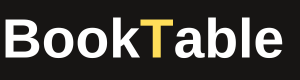
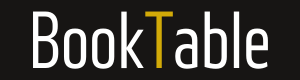
feat:Creation of the database and changes in the visual of the aplication

diff --git a/views/HomeView.xaml b/views/HomeView.xaml
@@ -2,7 +2,7 @@
 <ContentPage xmlns="http://schemas.microsoft.com/dotnet/2021/maui"
              xmlns:x="http://schemas.microsoft.com/winfx/2009/xaml"
              x:Class="BookTable.Views.HomeView"
-             BackgroundColor="#171514">
+             BackgroundColor="#000">
 
 
 
@@ -16,6 +16,7 @@
                  />
 
                 <Image Source="booktable.png"
+               Margin="5, 0, 0, 0"
                HeightRequest="80"
                WidthRequest="200"
                HorizontalOptions="Start"/>
@@ -25,12 +26,13 @@
         <Grid>
             <Grid.RowDefinitions>
                 <RowDefinition Height="{Binding HeightPaste}" />
-                <!-- Linha para o Frame -->
             </Grid.RowDefinitions>
 
-            <Frame Grid.Row="1"
-           Padding="1"
-           BackgroundColor="#0d0c0c"
+            <ScrollView VerticalScrollBarVisibility="Always">
+                <Frame Grid.Row="1"
+           Padding="0, 1, 0, 0"
+           BackgroundColor="#000"
+           BorderColor="Black"
            HeightRequest="{Binding HeightPaste}"
            WidthRequest="{Binding WidthPaste}"
            VerticalOptions="FillAndExpand"
@@ -40,35 +42,46 @@
                     <CollectionView.ItemTemplate>
                         <DataTemplate>
                             <Frame
-                           Margin="0, 1, 0 , 0"
-                           BackgroundColor="#121110"
+                           Margin="0, 0, 0 , 1"
+                           BackgroundColor="#16384C"
                            HasShadow="False"
                            CornerRadius="0"
-                           BorderColor="Black"
+                           BorderColor="#171514"
                            HeightRequest="60"
                            VerticalOptions="FillAndExpand"
                            HorizontalOptions="FillAndExpand"
                            >
-                                <StackLayout>
-                                    <Label Text="{Binding Name}" FontSize="14" HorizontalOptions="FillAndExpand"  />
-                                </StackLayout>
-                            </Frame>
+                                    <StackLayout  Orientation="Horizontal">
+                                        <Label Text="{Binding Name}" FontSize="14" HorizontalOptions="StartAndExpand"  />
+                                        <Button Text="+" FontSize="10" HorizontalOptions="Center" VerticalOptions="Center"
+                                        WidthRequest="20"
+                                        BackgroundColor="Transparent"
+                                        TextColor="#171514"
+                                        BorderWidth="0"/>
+                                        <ImageButton Source="trash.png"
+                                        HorizontalOptions="EndAndExpand"
+                                        HeightRequest="20"
+                                        WidthRequest="20"
+                                        VerticalOptions="End" />
+                                    </StackLayout>
+                                </Frame>
                         </DataTemplate>
                     </CollectionView.ItemTemplate>
                 </CollectionView>
             </Frame>
-        </Grid>
+            </ScrollView>
 
 
 
-        <Frame WidthRequest="70"
-               HeightRequest="70"
+            <Frame WidthRequest="60"
+               HeightRequest="60"
                CornerRadius="40"
                BackgroundColor="#d2aa08"
+               BorderColor="Transparent"
                HasShadow="False"
                HorizontalOptions="Center"
                VerticalOptions="FillAndExpand"
-               Margin="0,10,0,0"
+               Margin="{Binding ButtonMargin}"
                x:Name="ButtonFrame">
 
                 <Button Text="+"
@@ -83,7 +96,8 @@
                     VerticalOptions="Center"
                     Command="{Binding ShowOptionsCommand}"/>
             </Frame>
+        </Grid>
 
-        </VerticalStackLayout>
+    </VerticalStackLayout>
   
 </ContentPage>

diff --git a/ViewModel/HomeViewModel.cs b/ViewModel/HomeViewModel.cs
@@ -19,11 +19,14 @@ namespace BookTable.ViewModel
         public ObservableCollection<Paste> Pastes { get; set; }
         private double _heightPaste;
         private double _widthPaste;
+        private Thickness _buttonMargin;
         public HomeViewModel()
         {
+            LoadPastesAsync();
             Pastes = new ObservableCollection<Paste>();
-            HeightPaste = DeviceInfoModel.ScreenHeight - DeviceInfoModel.ScreenHeight / 3.5;
+            HeightPaste = DeviceInfoModel.ScreenHeight - DeviceInfoModel.ScreenHeight / 6;
             WidthPaste = DeviceInfoModel.ScreenWidth + 10;
+            ButtonMargin = new Thickness(0, DeviceInfoModel.ScreenHeight - DeviceInfoModel.ScreenHeight/3.6, 0, 0);
             //Create the command for showing a popup
             ShowOptionsCommand = new AsyncRelayCommand(ShowOptionsAsync);
         }
@@ -38,11 +41,12 @@ namespace BookTable.ViewModel
         public double WidthPaste
         {
             get => _widthPaste;
-            set
-            {
-                _widthPaste = value;
-                OnPropertyChanged(nameof(WidthPaste));
-            }
+            set => SetProperty(ref _widthPaste, value);
+        }
+        public Thickness ButtonMargin
+        {
+            get => _buttonMargin;
+            set => SetProperty(ref _buttonMargin, value);
         }
 
         //This happens whe the user click the button
@@ -58,8 +62,23 @@ namespace BookTable.ViewModel
                 {
                     var popup = new NewPastePopup();
                     await page.ShowPopupAsync(popup);
+                    var newPaste = new Paste { Name = popup.PasteName};
                     Pastes.Add(new Paste { Name = popup.PasteName });
+                    await DatabaseHelper.Database.InsertAsync(newPaste);
                 }
+            }
+        }
+        [RelayCommand]
+        public async Task LoadPastesAsync()
+        {
+            var pastes = await DatabaseHelper.Database.Table<Paste>().ToListAsync();
+
+            if (Pastes.Count > 0)
+                Pastes.Clear();
+
+            foreach (var paste in pastes)
+            {
+                Pastes.Add(paste); 
             }
         }
     }

diff --git a/Models/DatabaseHelper.cs b/Models/DatabaseHelper.cs
@@ -1,0 +1,29 @@
+using SQLite;
+using System;
+using System.Collections.Generic;
+using System.Linq;
+using System.Text;
+using System.Threading.Tasks;
+using SQLite;
+using System.IO;
+
+namespace BookTable.Models
+{
+    public static class DatabaseHelper
+    {
+        private static SQLiteAsyncConnection _database;
+
+        public static SQLiteAsyncConnection Database
+        {
+            get
+            {
+                if (_database == null)
+                {
+                    _database = new SQLiteAsyncConnection(Path.Combine(FileSystem.AppDataDirectory, "booktable.db3"));
+                    _database.CreateTableAsync<Paste>().Wait();
+                }
+                return _database;
+            }
+        }
+    }
+}

diff --git a/Models/Paste.cs b/Models/Paste.cs
@@ -3,11 +3,14 @@ using System.Collections.Generic;
 using System.Linq;
 using System.Text;
 using System.Threading.Tasks;
+using SQLite;
 
 namespace BookTable.Models
 {
     public class Paste
     {
+        [PrimaryKey, AutoIncrement]
+        public int IdPaste { get; set; }
         public String Name { get; set; }
 
         public Paste()
